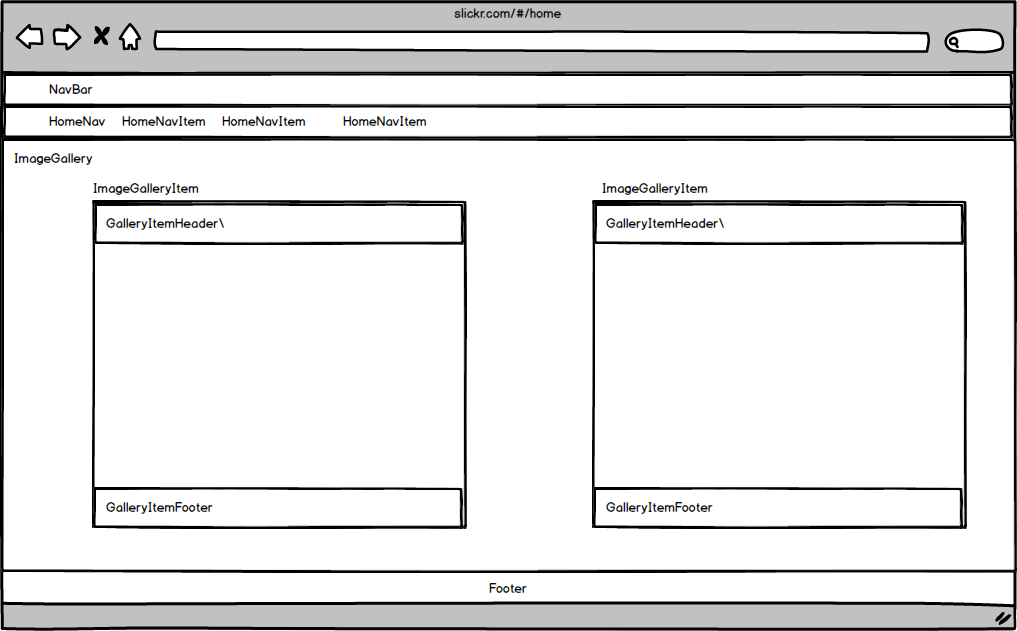
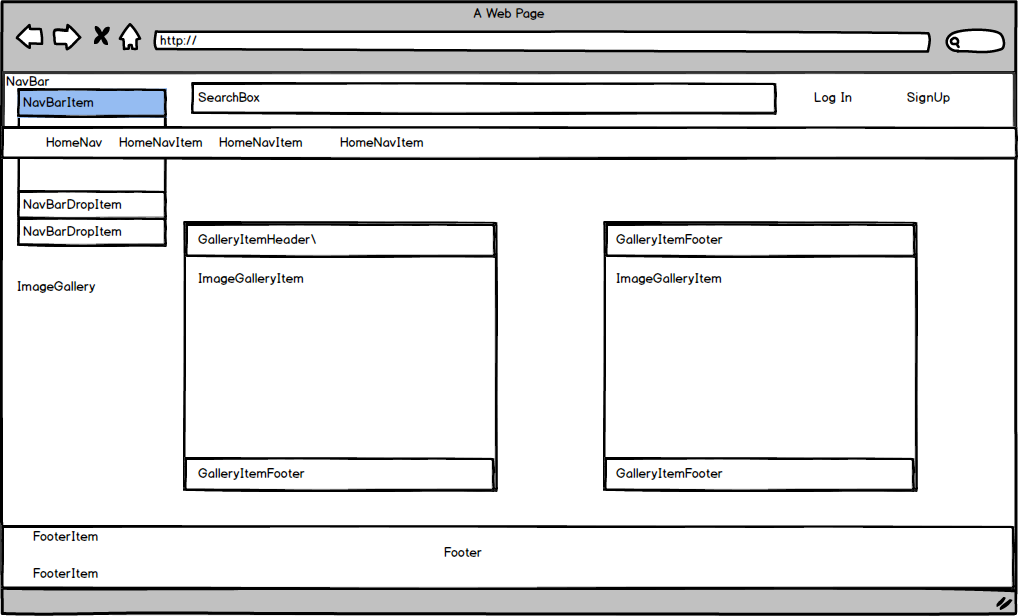
Add component hierarchy and wireframes

Changed region(s): [[0.0, 0.0, 1.0, 0.987], [0.0, 0.4318, 0.0914, 0.4935]]

diff --git a/frontend/components/greeting/greeting.jsx b/frontend/components/greeting/greeting.jsx
@@ -1,8 +1,7 @@
 import React from 'react';
 import { Link } from 'react-router';
 
-const Greeting = ({username, logout}) => {
-  debugger;
+const Greeting = ({username, logout, login}) => {
   if (username){
     return (
       <div>
@@ -15,7 +14,11 @@ const Greeting = ({username, logout}) => {
       <div>
         <Link to='/signup'>Sign Up</Link>
         <br/>
-        <Link to='/login'>Sign In</Link>
+        <Link to='/login'>Login</Link>
+        <br/>
+        <a onClick={ () => login({username: "guest", password: "password"})}>
+          Guest Login
+        </a>
       </div>
     );
   }

diff --git a/frontend/components/greeting/greeting_container.js b/frontend/components/greeting/greeting_container.js
@@ -1,13 +1,14 @@
 import { connect } from 'react-redux';
 import Greeting from './greeting';
-import { logout } from '../../actions/session_actions';
+import { logout, login } from '../../actions/session_actions';
 
 const mapStateToProps = state => ({
   username: state.session.username
 });
 
 const mapDispatchToProps = dispatch => ({
-  logout: () => dispatch(logout())
+  logout: () => dispatch(logout()),
+  login: guest => dispatch(login(guest))
 });
 
 export default connect(mapStateToProps, mapDispatchToProps)(Greeting);

diff --git a/frontend/components/app.jsx b/frontend/components/app.jsx
@@ -3,7 +3,7 @@ import GreetingContainer from './greeting/greeting_container';
 
 const App = ({ children }) => (
   <div>
-    <h1>Bench BnB</h1>
+    <h1>Slickr</h1>
     <GreetingContainer />
     {children}
   </div>

diff --git a/frontend/components/session/session_form.jsx b/frontend/components/session/session_form.jsx
@@ -12,7 +12,6 @@ class SessionForm extends React.Component {
 
   componentDidUpdate(){
     if (this.props.loggedIn) {
-      debugger;
       this.props.router.push("/");
     }
   }

diff --git a/db/seeds.rb b/db/seeds.rb
@@ -5,3 +5,5 @@
 #
 #   movies = Movie.create([{ name: 'Star Wars' }, { name: 'Lord of the Rings' }])
 #   Character.create(name: 'Luke', movie: movies.first)
+
+User.create!({username: "guest", password: "password"});

diff --git a/docs/component-hierarchy.md b/docs/component-hierarchy.md
@@ -1,0 +1,102 @@
+## Component Hierarchy
+
+**AuthFormContainer**
+  - SessionForm
+
+**HomeContainer**
+  - Home
+    * NavBarContainer
+      - NavBar
+        - NavBarItem
+          - NavBarDropItem
+        - SearchBox
+    * HomeNav
+      - HomeNavItem
+    * ImageGallery
+      * ImageGalleryItemContainer
+        - ImageGalleryItem
+          - GalleryItemHeader
+          - GalleryItemFooter
+    - Footer
+      - FooterItem
+
+
+**ExploreContainer**
+  * NavBarContainer
+    - NavBar
+      - NavBarItem
+        - NavBarDropItem
+      - SearchBox
+  - ExploreGallery
+    - ExploreGalleryItem
+  - Footer
+    - FooterItem
+
+**ProfileContainer**
+  * NavBarContainer
+    - NavBar
+      - NavBarItem
+        - NavBarDropItem
+      - SearchBox
+  - ProfileHeader
+  - ProfileNav
+    * CameraRollContainer
+      - CameraRollOptions
+        - CameraRollItem
+          - CameraRollItemOptions
+
+    - PhotoStream
+      - PhotoStreamSorter
+      - ImageItem
+
+    - Albums
+      - NewAlbum
+      - AlbumItem
+  - Footer
+    - FooterItem
+
+**ImageContainer**
+  * NavBarContainer
+    - NavBar
+      - NavBarItem
+        - NavBarDropItem
+      - SearchBox
+  - Image
+    - ImageStream
+      - ImageItem
+  - UserDescription
+    - UserLink
+    - Comments
+      -CommentItem
+  - PhotoDetails
+    - AlbumItem
+    - Tags
+      - TagItem
+  - Footer
+    - FooterItem
+
+**AlbumContainer**
+  * NavBarContainer
+    - NavBar
+      - NavBarItem
+        - NavBarDropItem
+      - SearchBox
+  - AlbumDetail
+    - AlbumCover
+    - ImageItem
+  - Footer
+    - FooterItem
+
+
+    |Path   | Component   |
+    |-------|-------------|
+    | "/sign-up" | "AuthFormContainer" |
+    | "/sign-in" | "AuthFormContainer" |
+    | "/home" | "HomeContainer" |
+    | "/home/explore" | "ExploreContainer" |
+    | "/home/profile" | "ProfileContainer" |
+    | "/home/photos/:photoId" | "ImageContainer" |
+    | "/home/profile/albums" | "Albums"
+    | "/home/profile/camera_roll" | "CameraRollContainer"
+    | "/home/profile/photo_stream" | "PhotoStream"
+    | "/home/albums/:albumId" | "AlbumContainer"

diff --git a/docs/README.md b/docs/README.md
@@ -1,0 +1,68 @@
+# Flikr
+
+[Heroku link][heroku]
+
+[Trello link][trello]
+
+[heroku]: https://flikr.herokuapp.com/#/
+
+## Minimum Viable Product
+
+Flikr is a web application inspired by Flickr built using Ruby on Rails
+and React/Redux.  By the end of Week 9, this app will, at a minimum, satisfy the
+following criteria with smooth, bug-free navigation, adequate seed data and
+sufficient CSS styling:
+
+- [ ] Hosting on Heroku
+- [ ] New account creation, login, and guest/demo login
+- [ ] Photos
+- [ ] Albums
+- [ ] Tags
+- [ ] Comments
+- [ ] Production README [sample](docs/production_readme.md)
+
+## Design Docs
+* [View Wireframes][wireframes]
+* [React Components][components]
+* [API endpoints][api-endpoints]
+* [DB schema][schema]
+* [Sample State][sample-state]
+
+[wireframes]: docs/wireframes
+[components]: docs/component-hierarchy.md
+[sample-state]: docs/sample-state.md
+[api-endpoints]: docs/api-endpoints.md
+[schema]: docs/schema.md
+
+## Implementation Timeline
+
+### Phase 1: Backend setup and Front End User Authentication (2 days)
+
+**Objective:** Functioning rails project with front-end Authentication
+
+### Phase 2: Photo Model, API, and components (2 days)
+
+**Objective:** Photos can be created, read and destroyed through
+the API.
+
+### Phase 3: Notebooks (2 day)
+
+**Objective:** Notes belong to Notebooks that can be created, read, edited and destroyed through the API.
+
+### Phase 4: Tags (1 days)
+
+**Objective:** Notes can be tagged with multiple tags, and tags are searchable.
+
+### Phase 5: Allow Complex Styling in Notes (1 days, W2 Th 6pm)
+
+**objective:** Allow rich text editing of notes.
+
+### Phase 6: - Pagination / infinite scroll for Notes Index (1 day, W2 F 6pm)
+
+**objective:** Add infinite scroll to Notes Index
+
+### Bonus Features (TBD)
+- [ ] Search notes by content
+- [ ] Set reminders on notes
+- [ ] Changelogs for Notes
+- [ ] Multiple sessions
